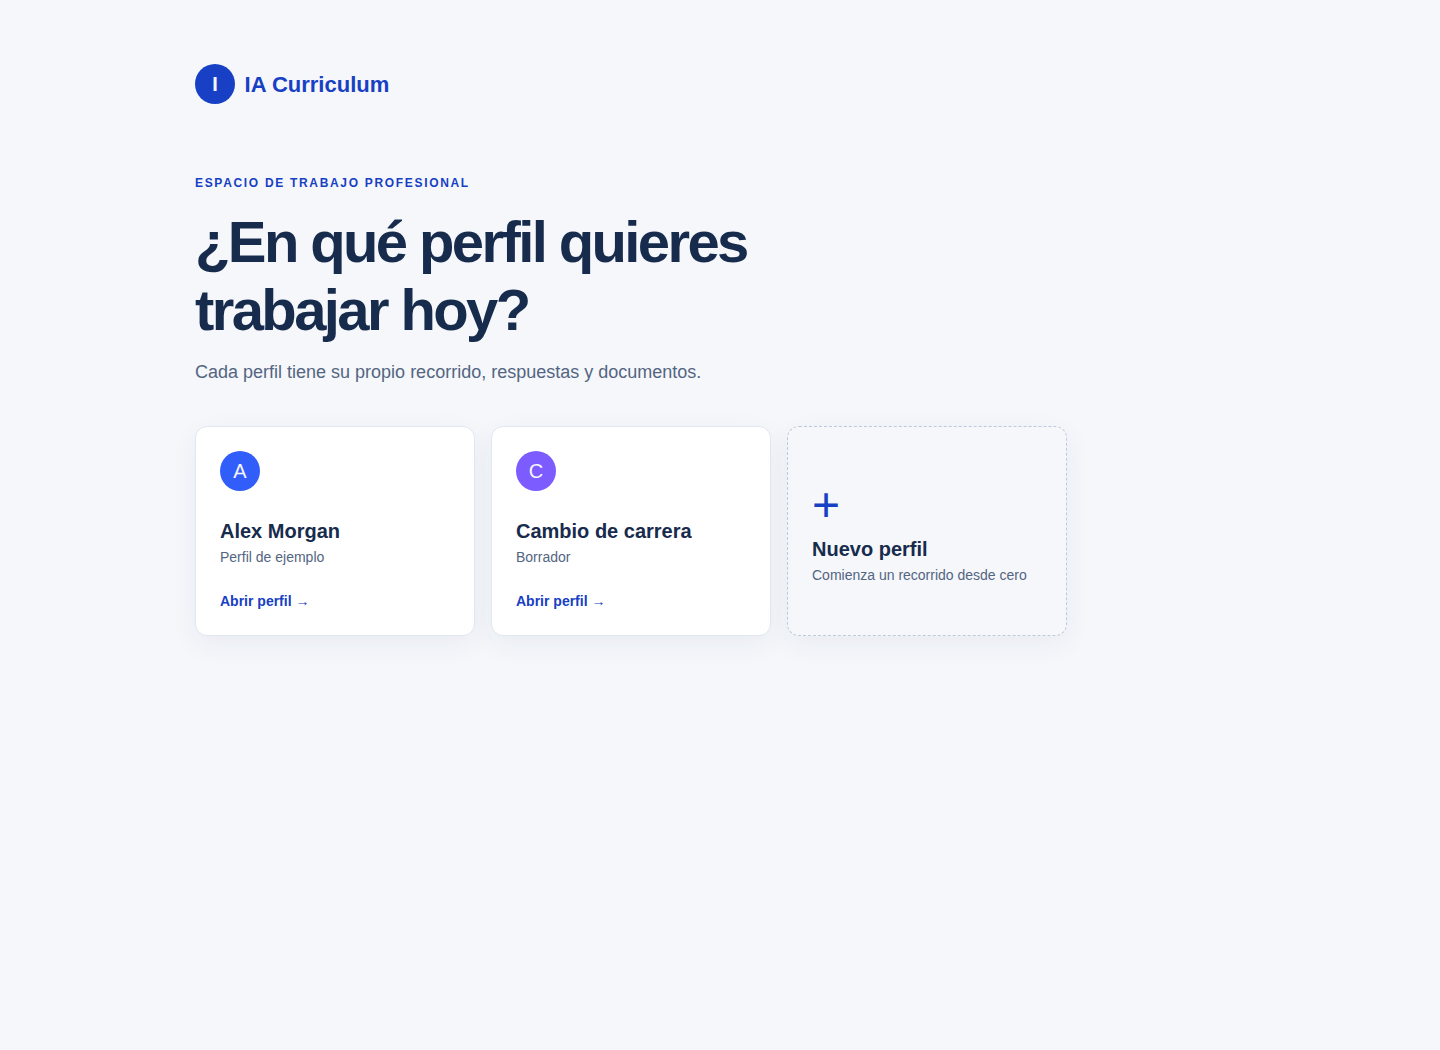
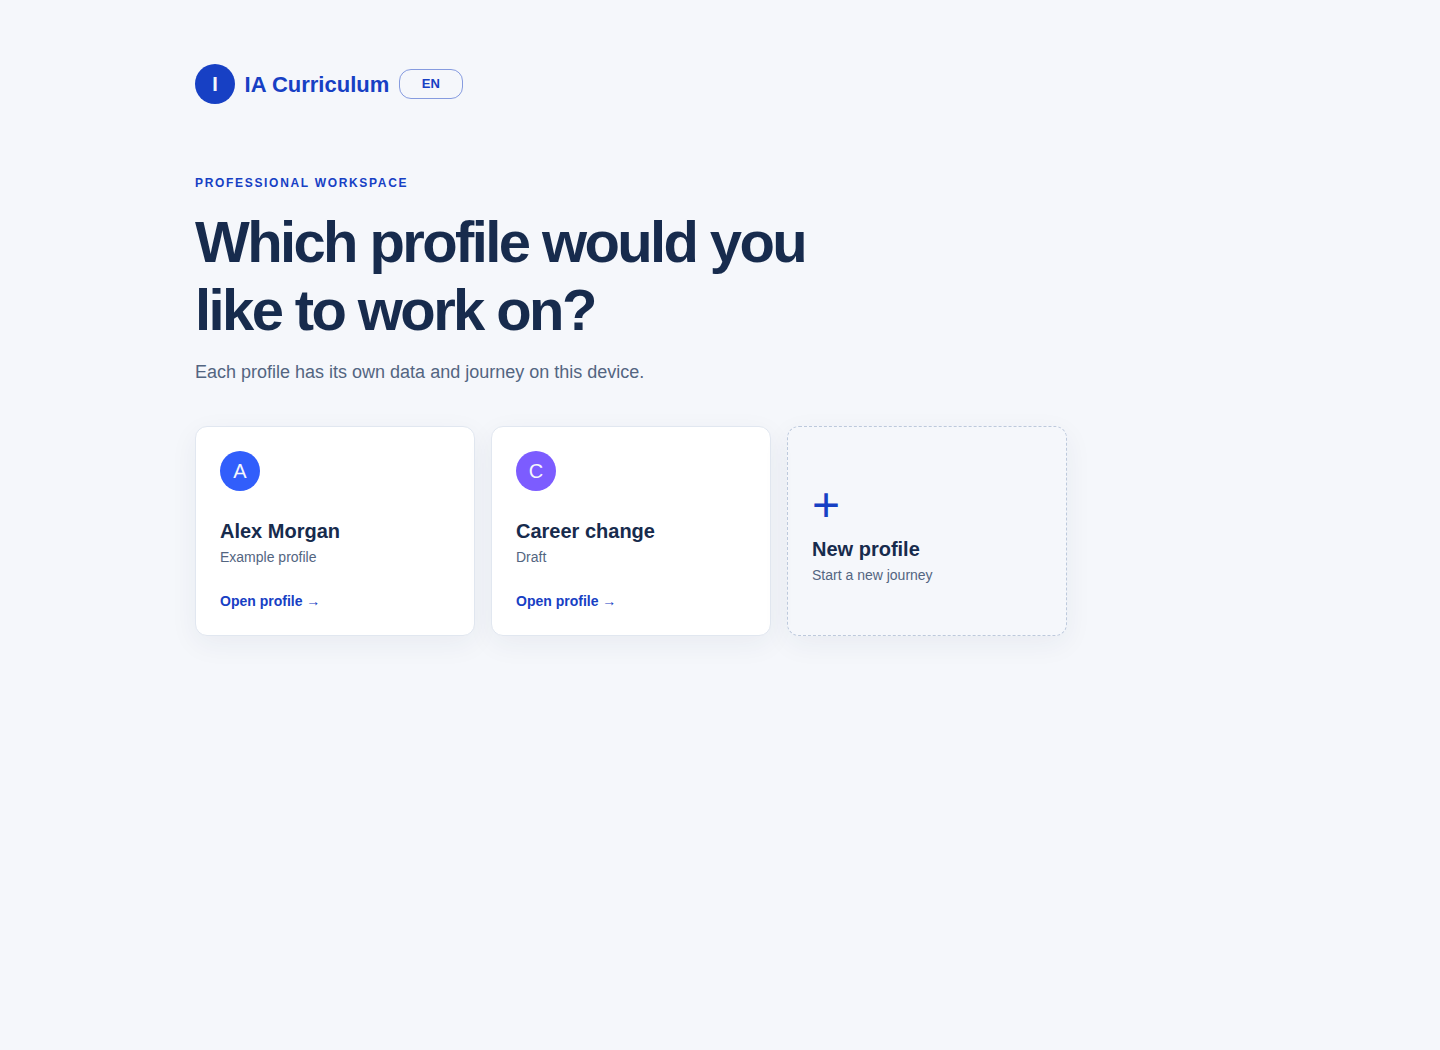
docs: refresh screenshots in consistent English

diff --git a/tests/e2e/profiles.spec.ts b/tests/e2e/profiles.spec.ts
@@ -23,6 +23,23 @@ test('cambia el idioma de toda la app y conserva la preferencia', async ({ page 
 
   await page.getByRole('link', { name: /Alex Morgan/ }).click();
   await expect(page.getByRole('heading', { name: 'Let’s shape your next step.' })).toBeVisible();
+  const createdAt = new Date().toISOString();
+  await page.evaluate((createdAt) => {
+    localStorage.setItem(
+      'ia-curriculum:records:alex:v1',
+      JSON.stringify([
+        {
+          id: 'basic-record',
+          section: 'basic',
+          values: { 'Sitio web': 'jordan.example.com' },
+          createdAt,
+          updatedAt: createdAt,
+        },
+      ]),
+    );
+  }, createdAt);
+  await page.goto('/profiles/alex/basic');
+  await expect(page.getByLabel('Website')).toBeVisible();
   await page.goto('/profiles/alex/settings');
   await expect(page.getByRole('heading', { name: 'Settings' })).toBeVisible();
   const modelInput = page.getByRole('textbox', { name: 'Model' });

diff --git a/app/[section]/page.tsx b/app/[section]/page.tsx
@@ -457,7 +457,7 @@ function getFieldLabel(field: string, locale: 'es' | 'en') {
     Teléfono: ['Teléfono', 'Phone'],
     'Ciudad y país': ['Ciudad y país', 'City and country'],
     'Estado civil': ['Estado civil', 'Marital status'],
-    Sitio: ['Sitio web', 'Website'],
+    'Sitio web': ['Sitio web', 'Website'],
     Institución: ['Institución', 'Institution'],
     'Título o programa': ['Título o programa', 'Degree or program'],
     'Fecha de inicio': ['Fecha de inicio', 'Start date'],

diff --git a/docs/open-source-readiness.md b/docs/open-source-readiness.md
@@ -9,7 +9,8 @@ IA Curriculum is an actively developed personal project, not a production servic
 - AI requests go directly from the browser to the configured OpenAI-compatible provider.
 - Browser storage and client-side token storage are not a security boundary against same-origin script execution.
 - AI proposals remain temporary until reviewed and saved by the user.
-- The print CV is English-only; server-side PDF export and design templates are future work.
+- CV labels follow the selected interface language; user-provided profile text is not translated automatically.
+- Server-side PDF export and design templates are future work.
 
 ## Release checks
 

diff --git a/README.md b/README.md
@@ -17,7 +17,7 @@ A local-first workspace for turning career reflections into organized profession
 
 ## Screenshots
 
-Explore the [full screenshot gallery](docs/screenshots.md). Images use synthetic profile data and contain no real user information.
+Explore the [full screenshot gallery](docs/screenshots.md). Screens use the English interface and fictional profile data; they contain no real user information.
 
 **Guided reflection**
 

diff --git a/docs/screenshots.md b/docs/screenshots.md
@@ -2,6 +2,8 @@
 
 These screens use fictional sample data generated in a temporary browser session. They do not contain real profile information or provider credentials.
 
+All screenshots show the English interface for a consistent walkthrough.
+
 ## Choose a profile
 
 ![Profile selection](screenshots/profiles.png)
